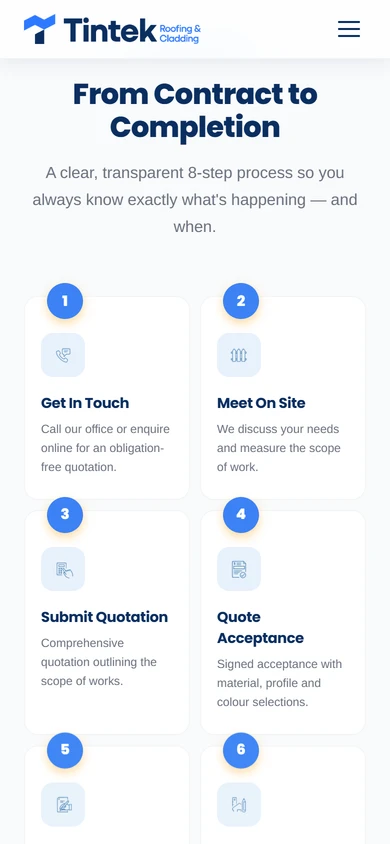
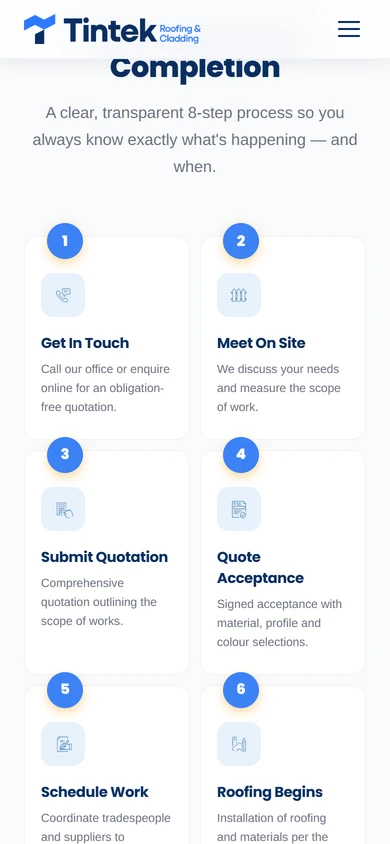
Shift Tintek screenshots down another header length

Changed region(s): [[0.0923, 0.0616, 0.9231, 1.0]]

diff --git a/capture-tintek.js b/capture-tintek.js
@@ -59,11 +59,11 @@ function removeFloatingElements(pg) {
     for (var i = 0; i < dividers.length; i++) {
       if (dividers[i].textContent.trim().toLowerCase() === 'our process') {
         var rect = dividers[i].getBoundingClientRect();
-        window.scrollBy(0, rect.top - 40);
+        window.scrollBy(0, rect.top + 20);
         return;
       }
     }
-    window.scrollTo(0, 6440);
+    window.scrollTo(0, 6500);
   });
   await new Promise(r => setTimeout(r, 1500));
   await pg.screenshot({ path: 'images/tmp.png', fullPage: false });
@@ -88,7 +88,7 @@ function removeFloatingElements(pg) {
       var t = headings[i].textContent.toLowerCase();
       if (t.includes('60-second') || t.includes('60 second')) {
         var rect = headings[i].getBoundingClientRect();
-        window.scrollBy(0, rect.top - 80);
+        window.scrollBy(0, rect.top - 20);
         return 'found: ' + headings[i].textContent;
       }
     }
@@ -129,7 +129,7 @@ function removeFloatingElements(pg) {
         }
         if (bestImg) {
           var imgRect = bestImg.getBoundingClientRect();
-          window.scrollBy(0, imgRect.top - 40);
+          window.scrollBy(0, imgRect.top + 20);
         } else {
           var rect = headings[i].getBoundingClientRect();
           window.scrollBy(0, rect.top - 60);